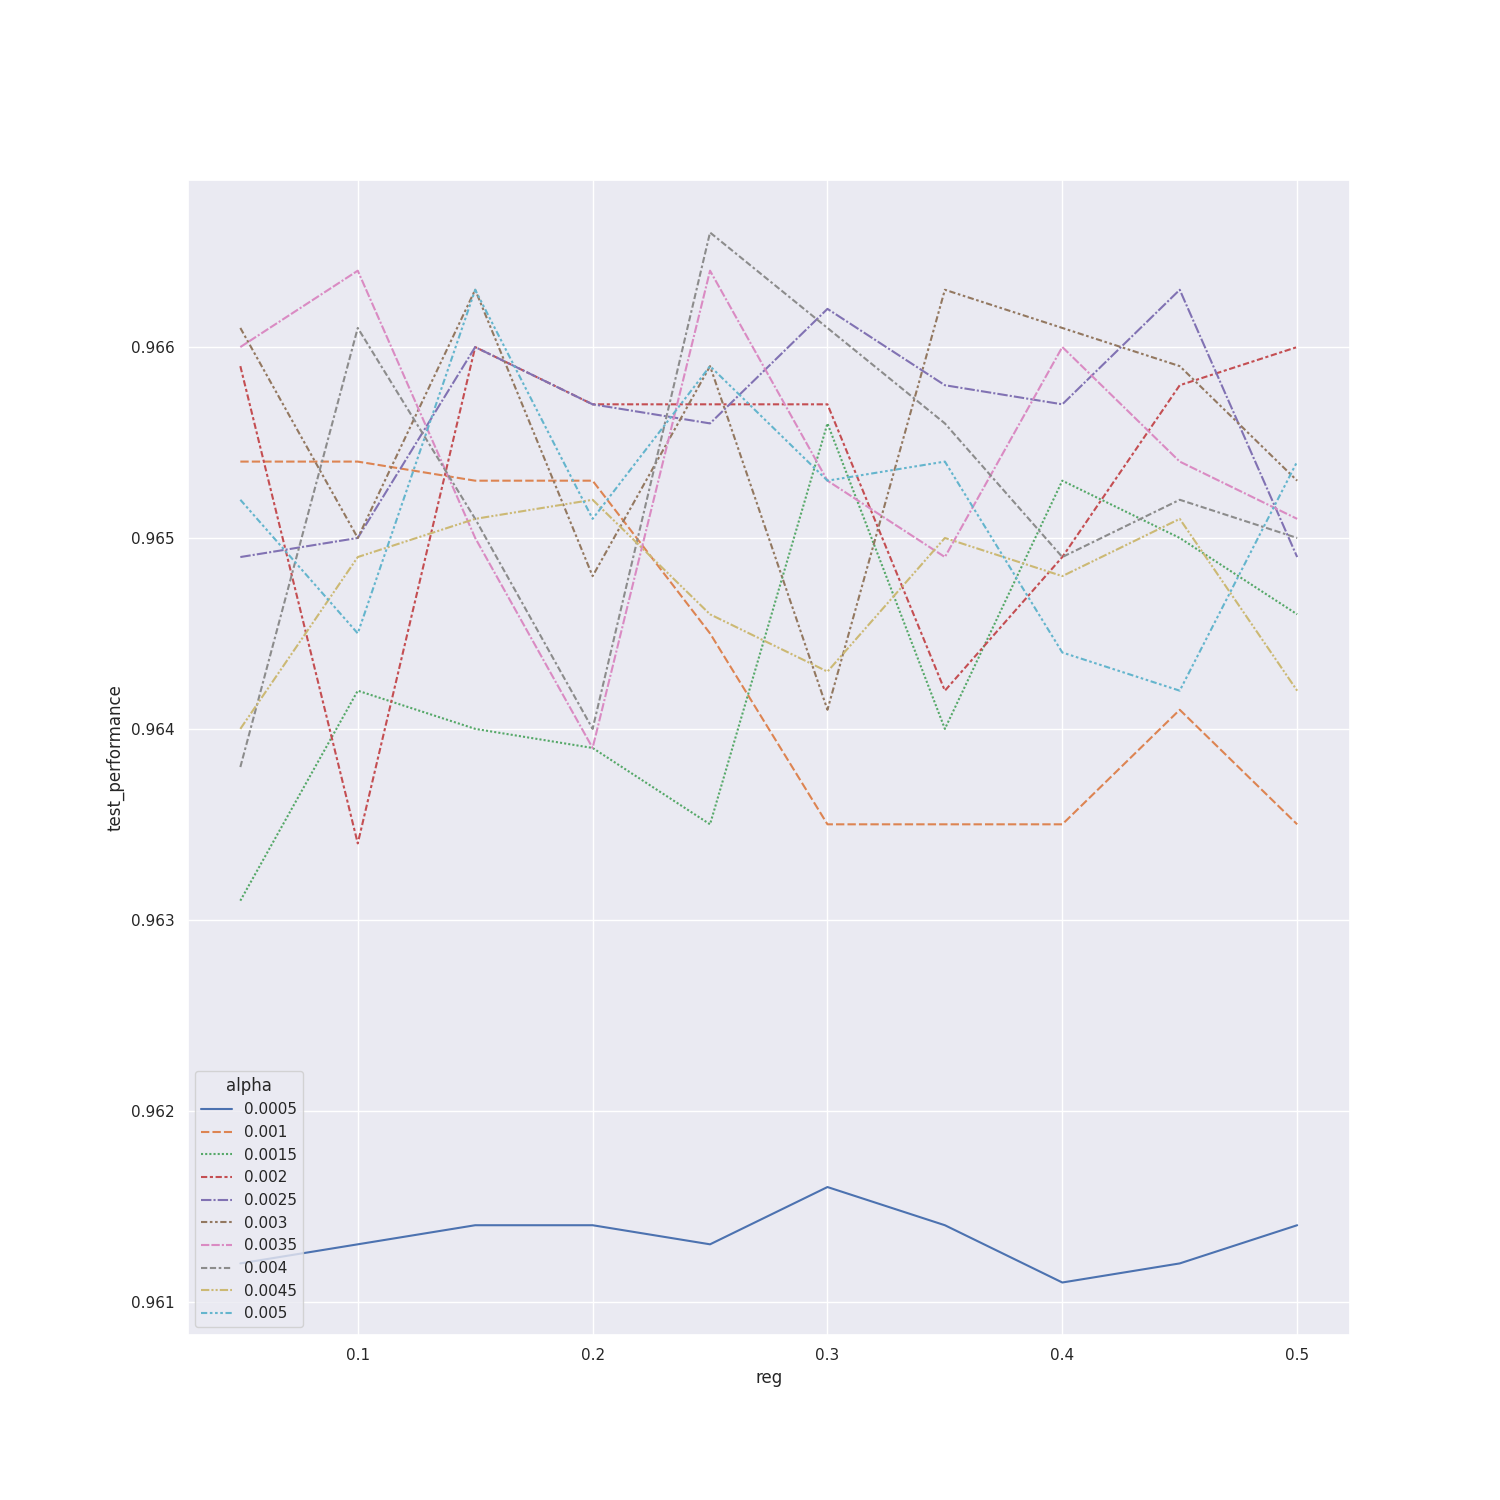
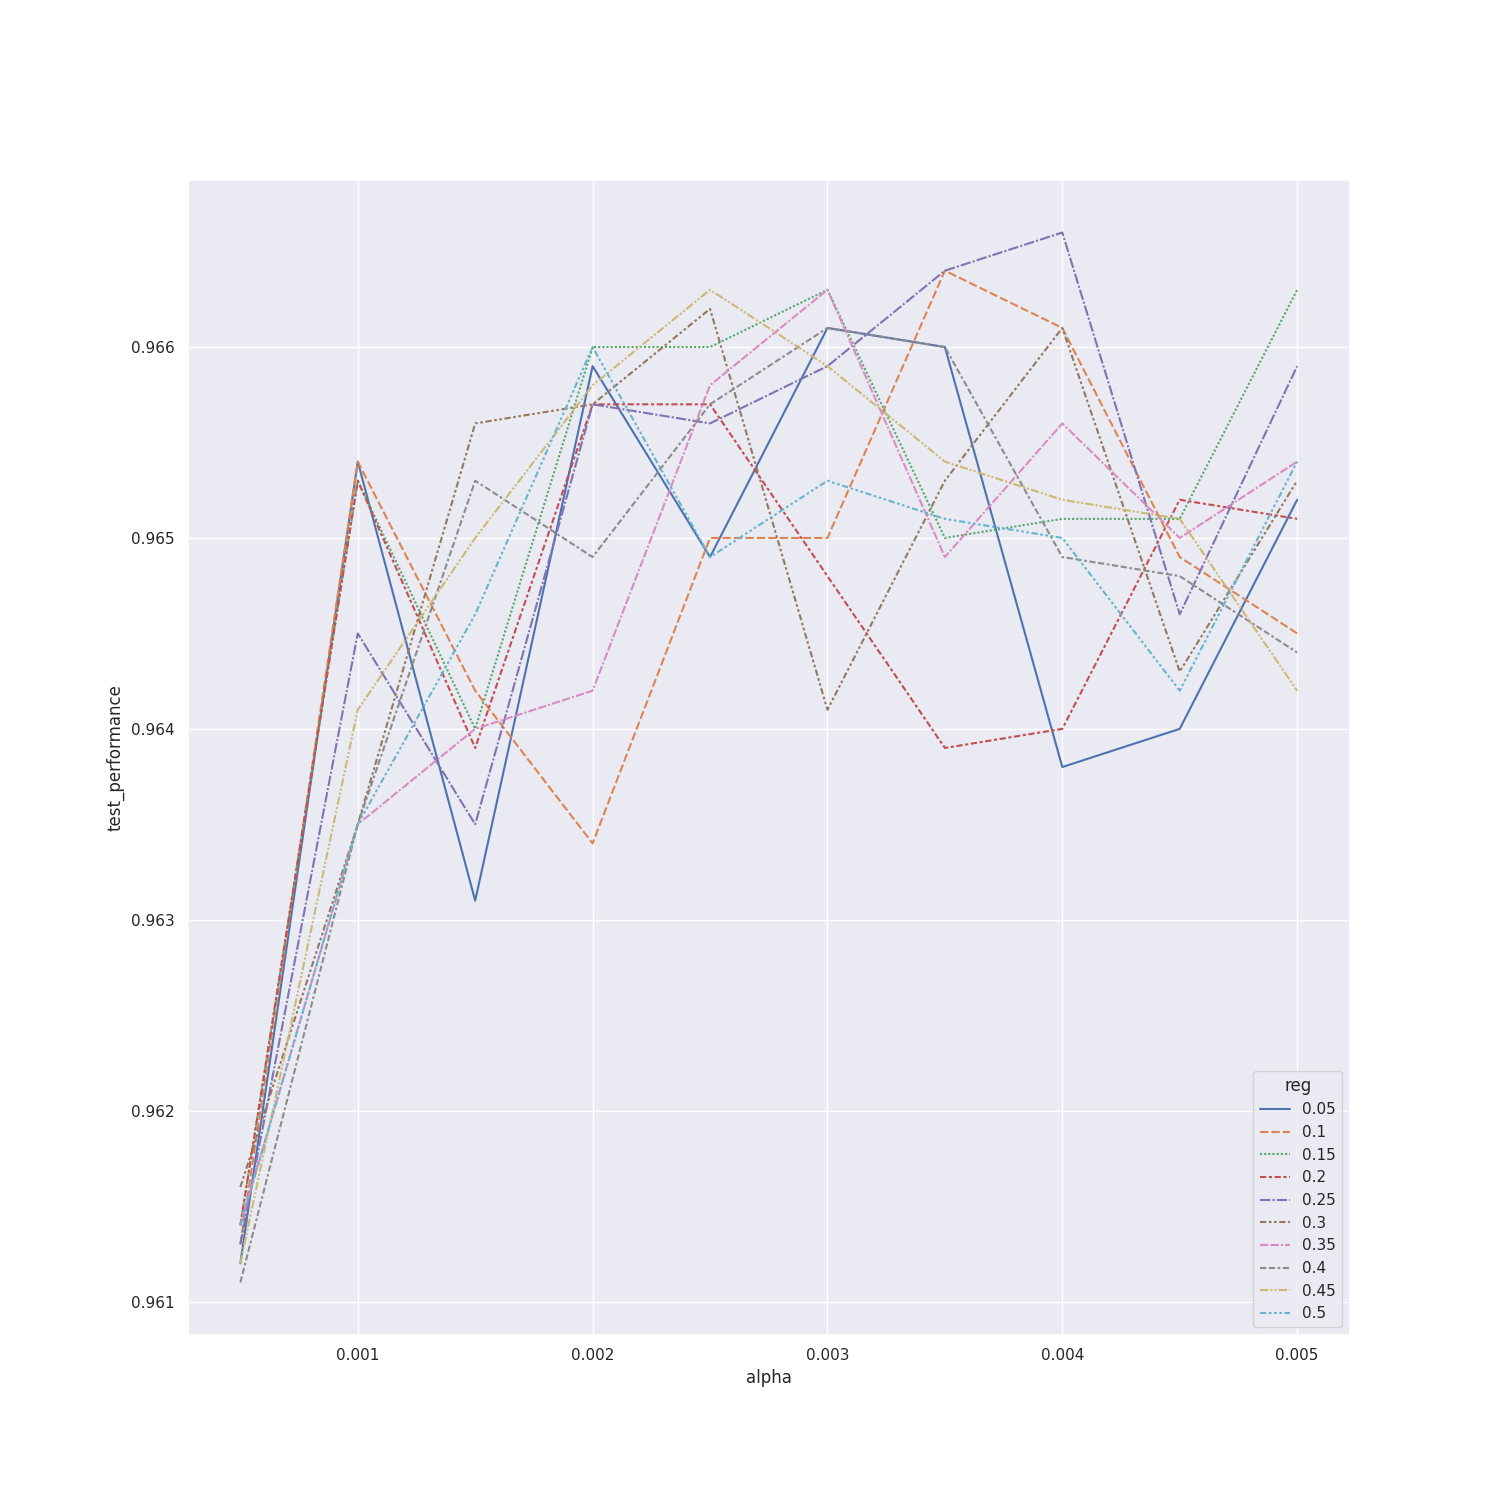
some more tests

diff --git a/src/graph_test.py b/src/graph_test.py
@@ -99,32 +99,33 @@ def split_batch_size(df):
 
 def full_performance(df):
     f, ax = plt.subplots(figsize=(15, 15))
-    sns.lineplot(
-        data=df,
-        x="reg",
-        y="test_performance",
-        hue="alpha",
-        style="alpha",
-        ax=ax,
-        palette=sns.color_palette("deep", 10),
-    )
-    sns.move_legend(ax, "lower left")
-    f.savefig("full_split.png")
-
-    f, ax = plt.subplots(nrows=2, figsize=(15, 15))
-    sns.lineplot(
-        data=df,
-        x="reg",
-        y="test_performance",
-        ax=ax[0],
-    )
-    sns.lineplot(
+    sns.scatterplot(
         data=df,
         x="alpha",
         y="test_performance",
-        ax=ax[1],
+        hue="reg",
+        style="reg",
+        ax=ax,
+        s=200,
+        palette=sns.color_palette("deep", 10),
     )
-    f.savefig("full_test.png")
+    sns.move_legend(ax, "lower right")
+    f.savefig("full_split.png")
+
+    # f, ax = plt.subplots(nrows=2, figsize=(15, 15))
+    # sns.lineplot(
+    #     data=df,
+    #     x="reg",
+    #     y="test_performance",
+    #     ax=ax[0],
+    # )
+    # sns.lineplot(
+    #     data=df,
+    #     x="alpha",
+    #     y="test_performance",
+    #     ax=ax[1],
+    # )
+    # f.savefig("full_test.png")
 
 def full_convergence(df):
     data = df.explode("convergence").reset_index().rename(columns={'index' : 'iteration'})
@@ -142,10 +143,11 @@ def full_convergence(df):
     )
     g.set_titles("{col_name} {col_var}")
     sns.move_legend(g, "upper left", bbox_to_anchor=(.50, .20), frameon=False)
-    g.savefig("convergence_error.png")    
+    g.savefig("convergence_error.png")   
 
 if __name__ == "__main__":
     data = get_data_from_file("full_test_data")
     df = pd.DataFrame(data)[-100:]
+    print(df["test_performance"].max())
     # full_performance(df)
-    full_convergence(df)
+    # full_convergence(df)

diff --git a/src/url_classification.py b/src/url_classification.py
@@ -72,7 +72,7 @@ def hinge_loss_bgd(X_train, y_train, alpha=0.001, batch_size=100, epochs=10, reg
             direction = (status[:, None] * batch).sum(axis=0)
             w = (1 - alpha * reg) * w + alpha * direction
         
-        correct_perc.append((1 - ((yX @ w) < 1).sum()/y_train.shape[0]).item())
+        # correct_perc.append((1 - ((yX @ w) < 1).sum()/y_train.shape[0]).item())
     
     return w, correct_perc
 
@@ -152,7 +152,7 @@ def test_mini_batch_convergence(filename="batch_test_data"):
     epochs = 32
 
     X, y = parse_url(days=[1])
-
+    
     X = scipy.sparse.csr_array(X)
     X_train, X_test, y_train, y_test = split_dataset(X, y)
 
@@ -181,9 +181,39 @@ def test_mini_batch_convergence(filename="batch_test_data"):
         print(i, t_end - t_start)
         with open(filename, 'a+b') as fp:
             pickle.dump(result, fp)
+
+def test_single_run():
+    N = 50
     
+    X, y = parse_url(days=list(range(1,33)))
+
+    X = scipy.sparse.csr_array(X)
+    X_train, X_test, y_train, y_test = split_dataset(X, y)
+
+    yX_test = (X_test * y_test[:, None]).tocsr()
+
+    t1 = time.time()
+    ttl_time = 0
+    perf = []
+    for i in range(5):
+        t1 = time.time()
+        weight, convergence = hinge_loss_bgd(
+            X_train, 
+            y_train, 
+            alpha=0.0011, 
+            batch_size=int(X_train.shape[0]*0.2), 
+            epochs=16, 
+            reg=0.25
+            )
+        ttl_time += time.time() - t1
+        perf.append((1 - ((yX_test @ weight) < 1).sum()/X_test.shape[0]).item())
+
+    print(ttl_time*200)
+    print(sum(perf)/5)
+
 if __name__ == "__main__":
     # test_mini_batch_convergence()
-    test_full_convergence()
+    # test_full_convergence()
+    test_single_run()
 
     
